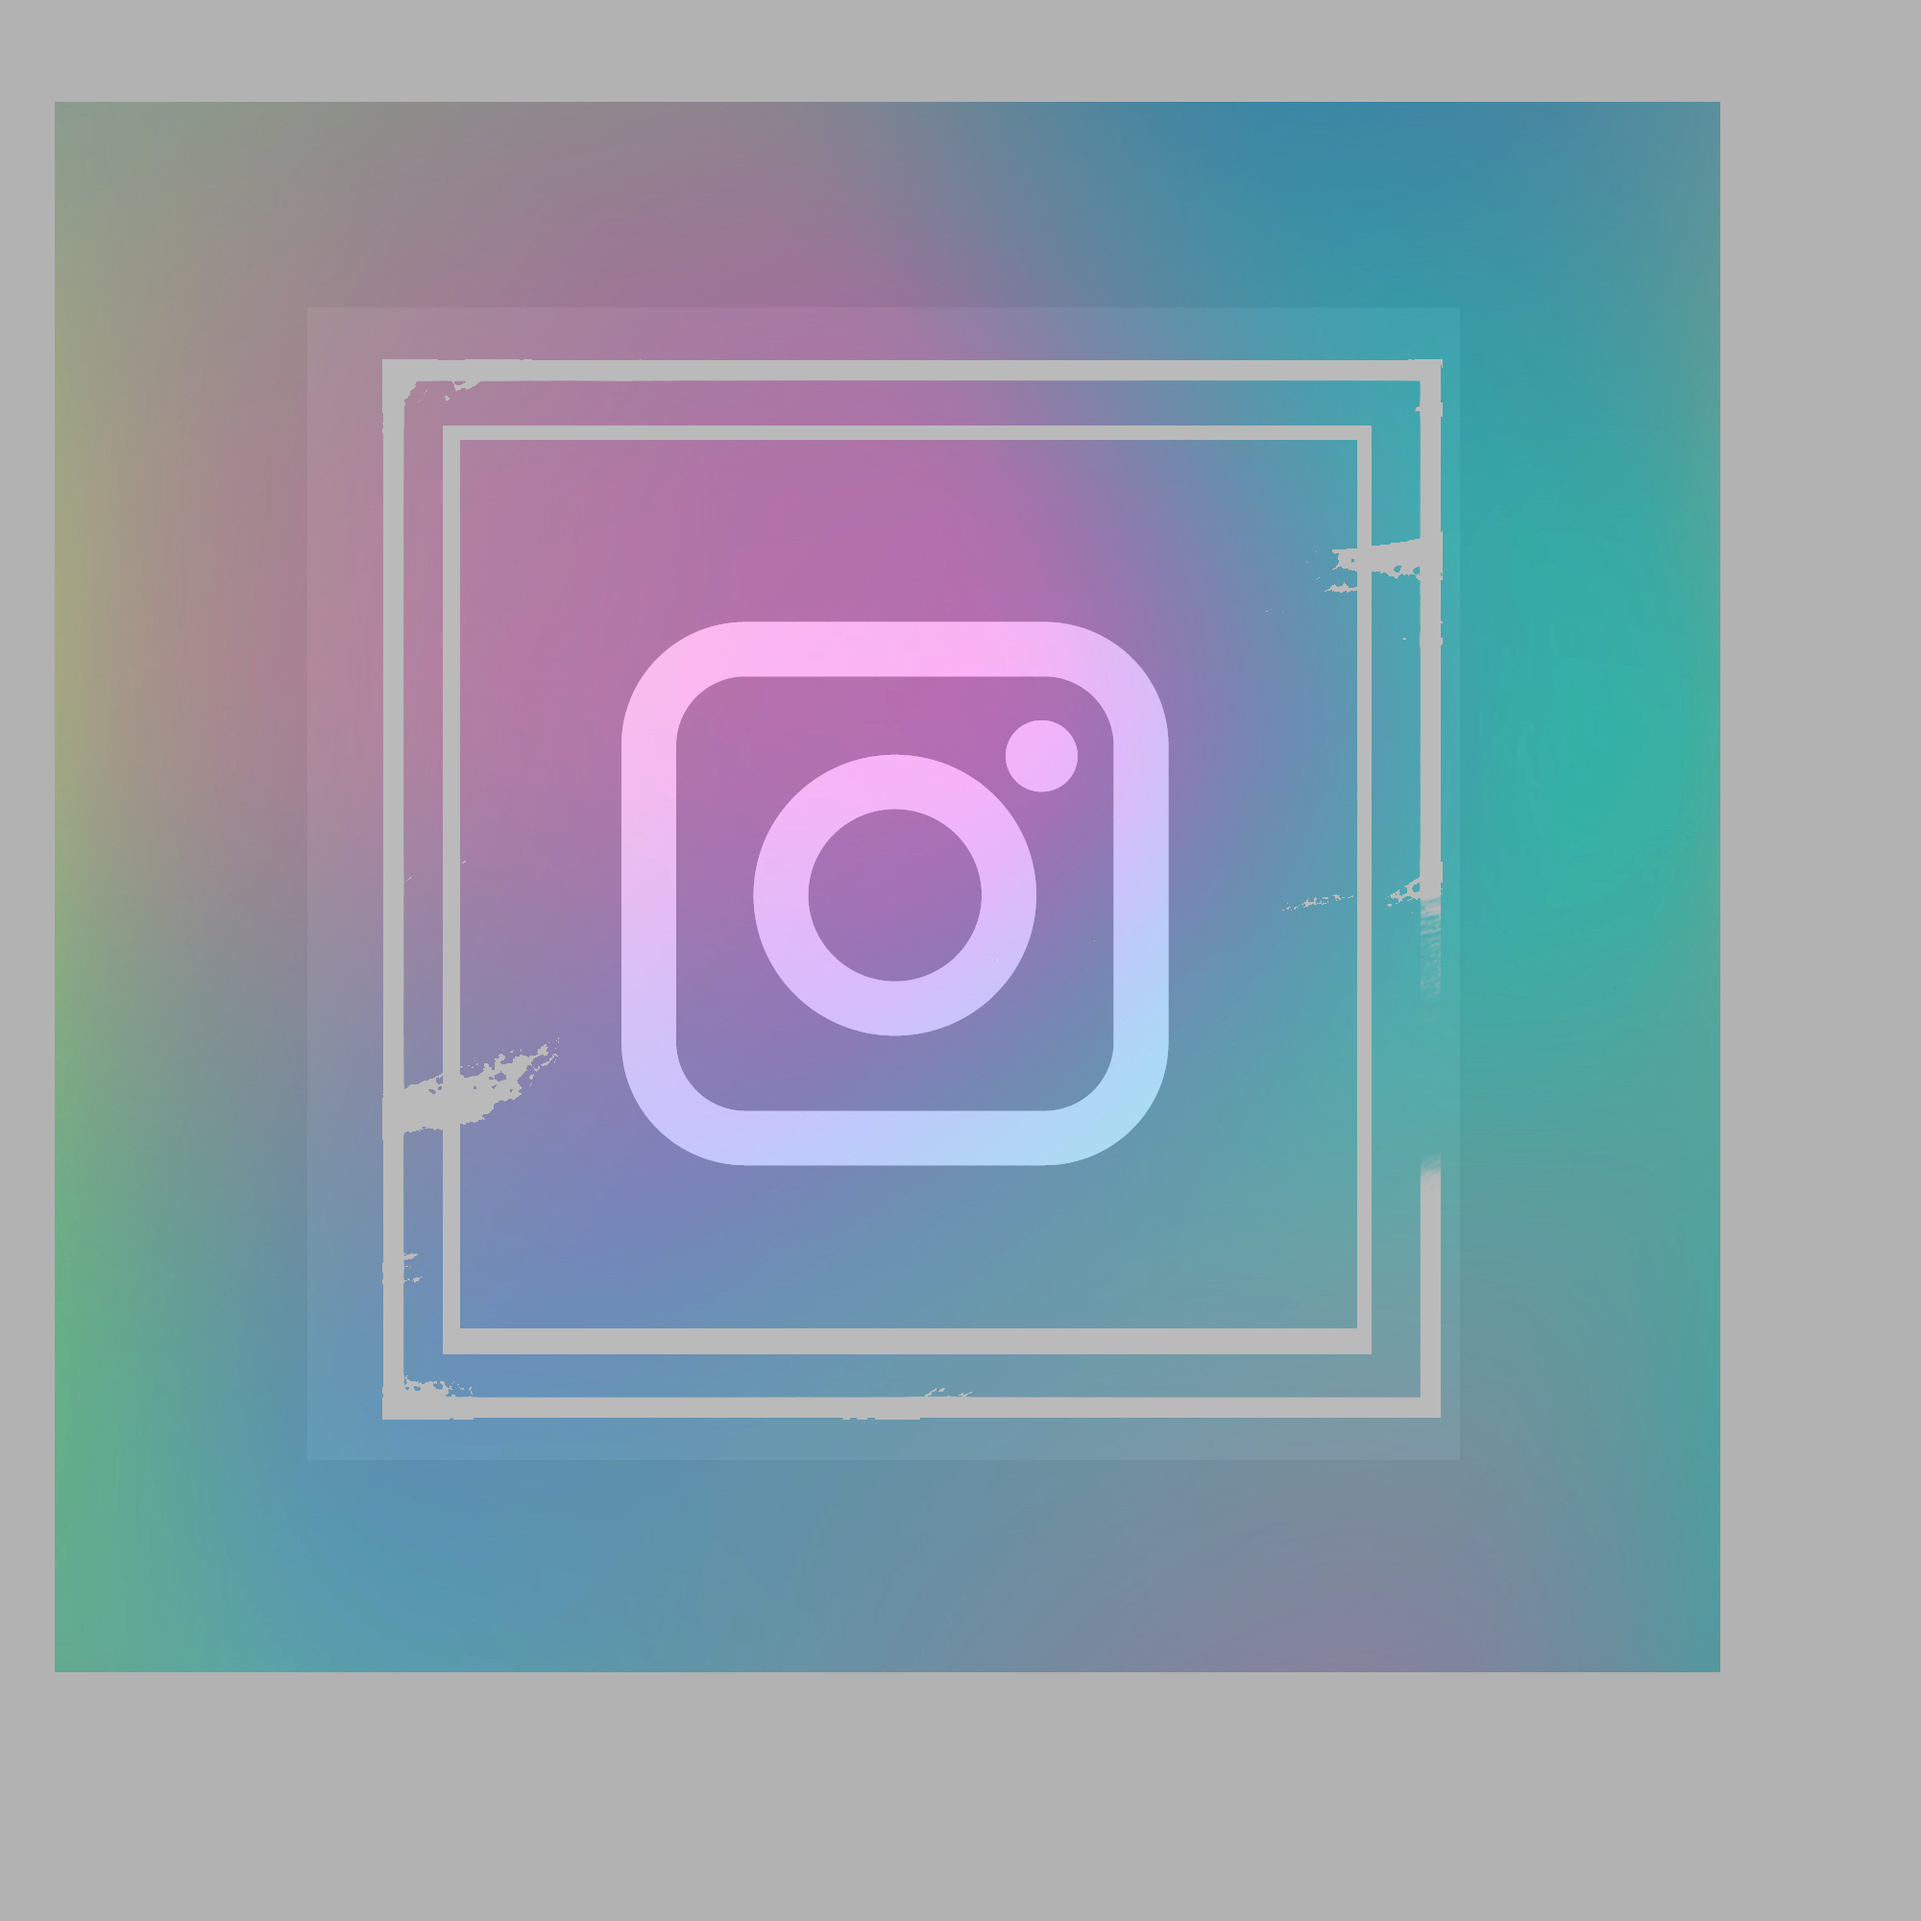
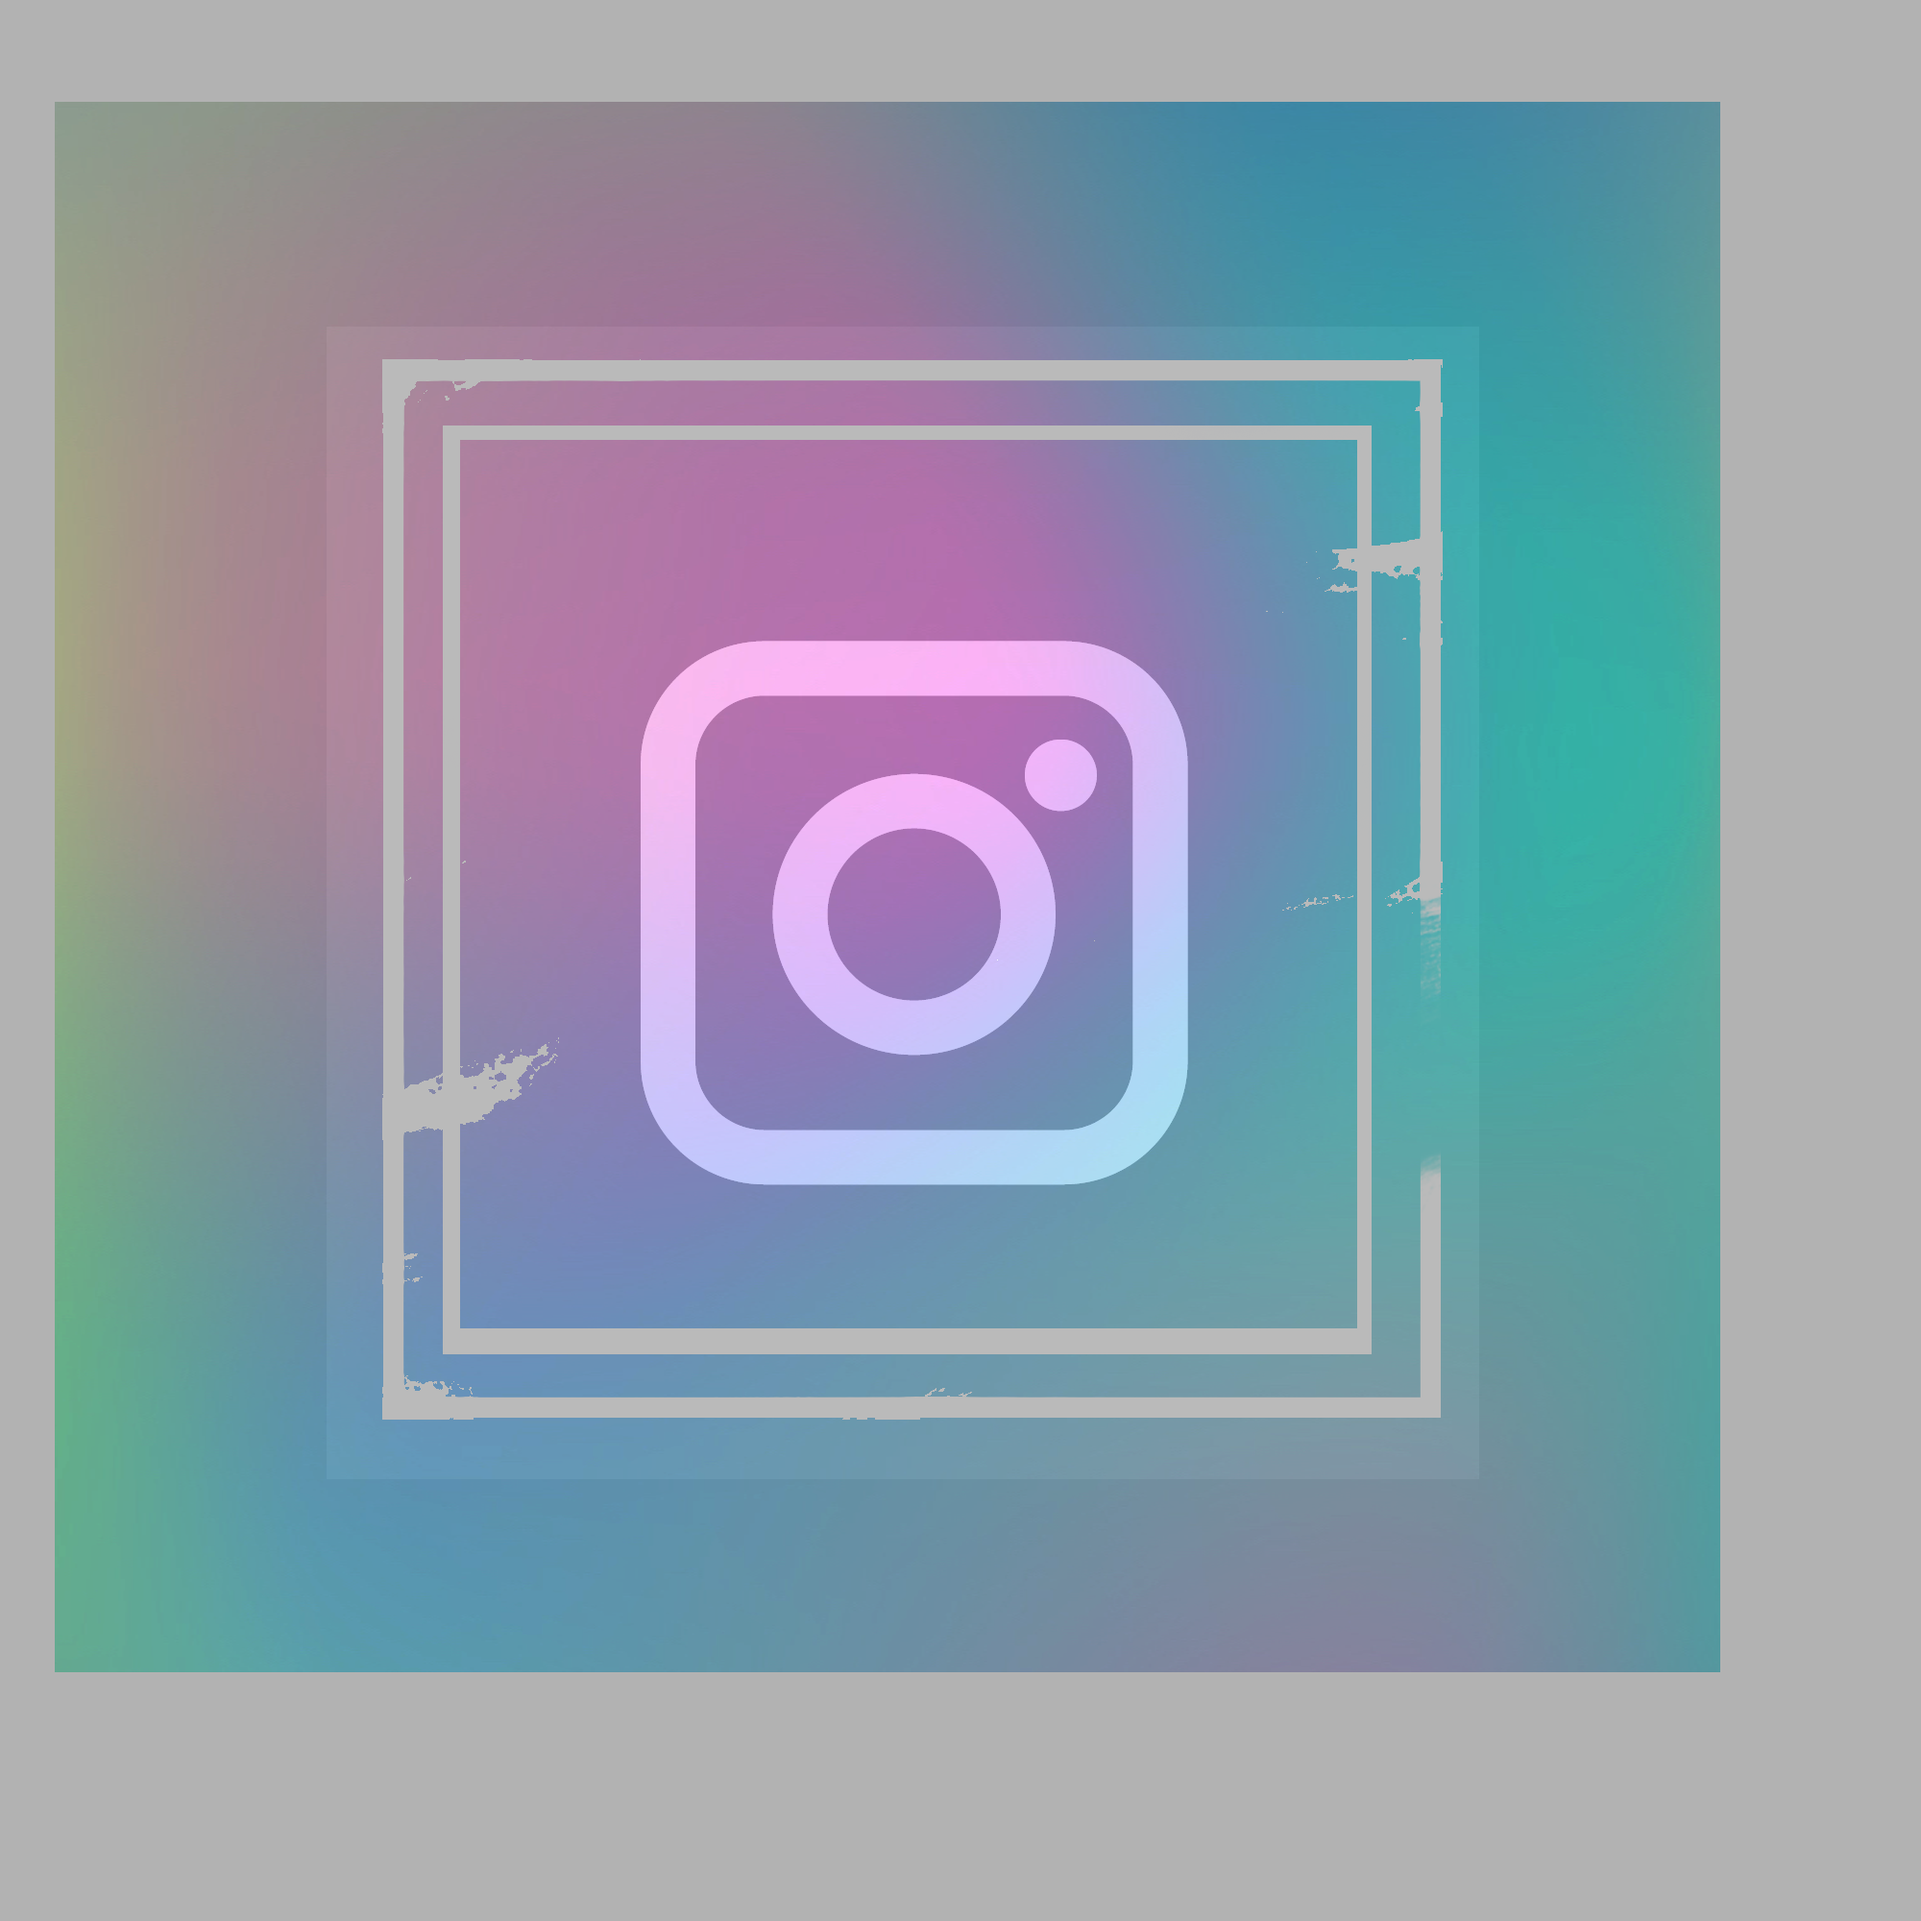
my_generate_css added

Changed region(s): [[0.31, 0.31, 0.62, 0.62]]

diff --git a/my_merge_image/my_merge_image.php b/my_merge_image/my_merge_image.php
@@ -6,18 +6,20 @@ function my_merge_image($first_img_path,$second_img_path){
     $width_first=imagesx($first_img);
     $height_second=imagesy($second_img);
     $width_second=imagesx($second_img);
-   echo "first X : ".$first_img_x=$width_first."\n";
-    echo "first Y : ".$first_img_y=$height_first."\n";
-    echo "Second X : ".$second_img_x=$width_second."\n";
-    echo "Second Y : ".$second_img_y=$height_second."\n";
+
+    //Find the middle of first image
+   echo "first X : ".$first_img_x=($width_second+120-$width_first)/2;
+   echo "first Y : ".$first_img_y=($height_second+120-$height_first)/2;
+
+    //Fusion des images
+    imagecopymerge($first_img,$second_img,0,0,$first_img_x,$first_img_y,$width_first,$height_first,30);
+    /** For test :
+     *imagepng($first_img,"img3.png");
+     */
+    return imagepng($first_img);
 
 
-
-    imagecopymerge($first_img,$second_img,0,0,-320,-320,$width_first,$height_first,30);
-    imagepng($first_img,"img3.png");
-    imagedestroy($first_img);
-    imagedestroy($second_img);
 
 }
-my_merge_image("img1.png","img2.png");
+echo my_merge_image("img1.png","img2.png");
 
